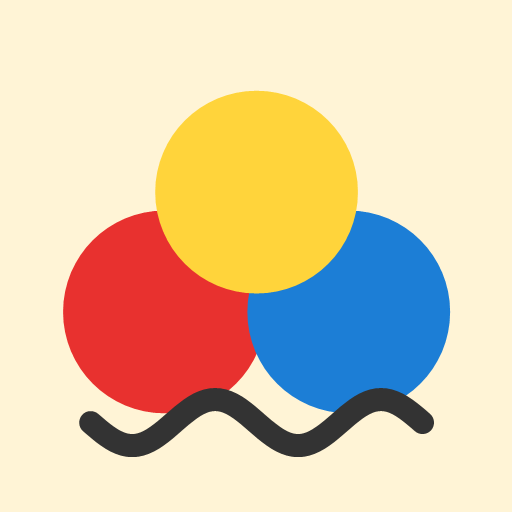
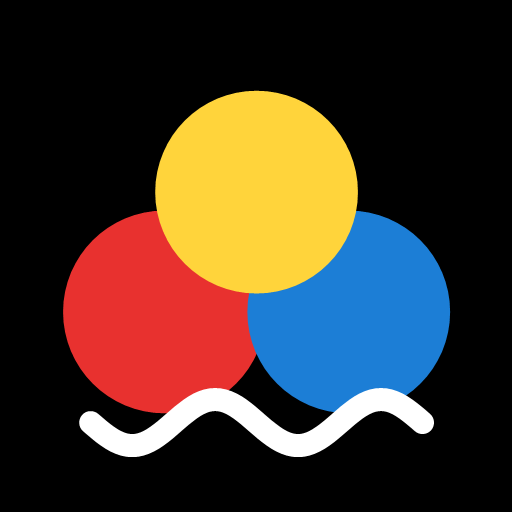
Black theme with rounded-square color swatches

diff --git a/index.html b/index.html
@@ -3,7 +3,7 @@
 <head>
 <meta charset="UTF-8" />
 <meta name="viewport" content="width=device-width, initial-scale=1.0, maximum-scale=1.0, user-scalable=no, viewport-fit=cover" />
-<meta name="theme-color" content="#FFF4D6" />
+<meta name="theme-color" content="#000000" />
 <meta name="robots" content="noindex, nofollow" />
 <meta name="mobile-web-app-capable" content="yes" />
 <meta name="apple-mobile-web-app-capable" content="yes" />
@@ -16,7 +16,7 @@
 <style>
   * { margin: 0; padding: 0; box-sizing: border-box; }
   html, body {
-    width: 100%; height: 100%; background: #FFF4D6; overflow: hidden;
+    width: 100%; height: 100%; background: #000; overflow: hidden;
     touch-action: none; overscroll-behavior: none;
     -webkit-user-select: none; user-select: none;
     -webkit-touch-callout: none; -webkit-tap-highlight-color: transparent;
@@ -32,22 +32,22 @@
   }
   #top { grid-column: 1 / 4; display: flex; align-items: center; gap: var(--g); }
   #top .sp { flex: 1; }
-  .panel { background: #fff; border-radius: calc(var(--u) * .3); display: flex; flex-direction: column; align-items: center; justify-content: space-evenly; padding: calc(var(--u) * .1); gap: calc(var(--u) * .1); min-height: 0; }
+  .panel { background: #1c1c1c; border-radius: calc(var(--u) * .3); display: flex; flex-direction: column; align-items: center; justify-content: space-evenly; padding: calc(var(--u) * .1); gap: calc(var(--u) * .1); min-height: 0; }
   button { font: inherit; border: none; cursor: pointer; touch-action: manipulation; transition: transform .08s; }
   button:active { transform: scale(.92); }
-  .btn { background: #fff; color: #333; border-radius: calc(var(--u) * .25); display: flex; align-items: center; justify-content: center; border: 3px solid #E9E2CF; }
+  .btn { background: #2a2a2a; color: #eee; border-radius: calc(var(--u) * .25); display: flex; align-items: center; justify-content: center; border: 3px solid #444; }
   .btn svg { width: 68%; height: 68%; }
   .big { width: calc(var(--u) * 1.15); height: calc(var(--u) * .85); }
   .tool { width: calc(var(--u) * 1.15); height: calc(var(--u) * .95); }
   .size { width: calc(var(--u) * 1.15); height: calc(var(--u) * .62); }
-  .btn.sel { border-color: #222; background: #FFE9A8; box-shadow: 0 0 0 4px #222; }
-  .size i { display: block; border-radius: 50%; background: #333; }
-  .color { width: calc(var(--u) * .92); height: calc(var(--u) * .92); border-radius: 50%; border: 4px solid rgba(0,0,0,.15); flex: none; }
-  .color.sel { border-color: #222; box-shadow: 0 0 0 4px #fff, 0 0 0 8px #222; transform: scale(1.04); }
+  .btn.sel { border-color: #fff; background: #3d3d3d; box-shadow: 0 0 0 4px #fff; }
+  .size i { display: block; border-radius: 50%; background: #eee; }
+  .color { width: calc(var(--u) * .92); height: calc(var(--u) * .92); border-radius: 22%; border: 4px solid rgba(255,255,255,.5); flex: none; }
+  .color.sel { border-color: #fff; box-shadow: 0 0 0 4px #1c1c1c, 0 0 0 8px #fff; transform: scale(1.04); }
   #colors { display: grid; grid-template-columns: 1fr 1fr; justify-items: center; align-content: space-evenly; gap: calc(var(--u) * .12); }
   #colors .color:last-child { grid-column: 1 / 3; }
   #cv { grid-column: 2; grid-row: 2; width: 100%; height: 100%; background: #fff; border-radius: calc(var(--u) * .3); display: block; touch-action: none; min-height: 0; min-width: 0; }
-  #parent { position: relative; width: calc(var(--u) * .6); height: calc(var(--u) * .6); border-radius: 50%; background: transparent; color: #C9BF9F; display: flex; align-items: center; justify-content: center; }
+  #parent { position: relative; width: calc(var(--u) * .6); height: calc(var(--u) * .6); border-radius: 50%; background: transparent; color: #555; display: flex; align-items: center; justify-content: center; }
   #parent svg { width: 60%; height: 60%; }
   #parent::after { content: ""; position: absolute; inset: 0; border-radius: 50%; border: 5px solid #FF922B; transform: scale(0); opacity: 0; transition: none; }
   #parent.hold::after { opacity: 1; transform: scale(1); transition: transform 1.2s linear; }
@@ -77,8 +77,8 @@
   <div class="panel" id="colors"></div>
   <canvas id="cv"></canvas>
   <div class="panel" id="tools">
-    <button class="btn tool sel" data-tool="pencil" aria-label="Pencil"><svg viewBox="0 0 64 64"><g transform="rotate(45 32 32)"><rect x="24" y="6" width="16" height="36" rx="2" fill="#FFB84D"/><rect x="24" y="6" width="16" height="8" rx="2" fill="#F783AC"/><path d="M24 42h16l-8 16z" fill="#F3D9B1"/><path d="M29 52h6l-3 6z" fill="#333"/></g></svg></button>
-    <button class="btn tool" data-tool="marker" aria-label="Marker"><svg viewBox="0 0 64 64"><g transform="rotate(45 32 32)"><rect x="21" y="4" width="22" height="38" rx="4" fill="#9775FA"/><rect x="21" y="4" width="22" height="9" rx="3" fill="#6741D9"/><path d="M25 42h14l-3 15h-8z" fill="#343A40"/></g></svg></button>
+    <button class="btn tool sel" data-tool="pencil" aria-label="Pencil"><svg viewBox="0 0 64 64"><g transform="rotate(45 32 32)"><rect x="24" y="6" width="16" height="36" rx="2" fill="#FFB84D"/><rect x="24" y="6" width="16" height="8" rx="2" fill="#F783AC"/><path d="M24 42h16l-8 16z" fill="#F3D9B1"/><path d="M29 52h6l-3 6z" fill="#ADB5BD"/></g></svg></button>
+    <button class="btn tool" data-tool="marker" aria-label="Marker"><svg viewBox="0 0 64 64"><g transform="rotate(45 32 32)"><rect x="21" y="4" width="22" height="38" rx="4" fill="#9775FA"/><rect x="21" y="4" width="22" height="9" rx="3" fill="#6741D9"/><path d="M25 42h14l-3 15h-8z" fill="#ADB5BD"/></g></svg></button>
     <button class="btn tool" data-tool="sparkle" aria-label="Sparkle brush"><svg viewBox="0 0 64 64"><path d="M30 8l6 20 20 6-20 6-6 20-6-20-20-6 20-6z" fill="#FFD43B" stroke="#F08C00" stroke-width="3" stroke-linejoin="round"/><path d="M52 6l2 6 6 2-6 2-2 6-2-6-6-2 6-2z" fill="#FF8AD8"/></svg></button>
     <div id="sizes" style="display:contents">
       <button class="btn size" data-size="0" aria-label="Thin"><i style="width:12px;height:12px"></i></button>
@@ -112,7 +112,7 @@
 (function () {
   var $ = function (s) { return document.querySelector(s); };
   var BG = '#fff';
-  var COLORS = ['#E8312F', '#FF922B', '#FFD43B', '#2F9E44', '#1C7ED6', '#7048E8', '#1E1E1E'];
+  var COLORS = ['#E8312F', '#FF922B', '#FFD43B', '#2F9E44', '#1C7ED6', '#7048E8', '#000000'];
   var NAMES = ['Red', 'Orange', 'Yellow', 'Green', 'Blue', 'Purple', 'Black'];
   var NOTES = [262, 294, 330, 392, 440, 523, 196];
   var BASE_W = { pencil: 6, marker: 22, sparkle: 14 };

diff --git a/sw.js b/sw.js
@@ -1,5 +1,5 @@
 /* Bump CACHE on every release so installed copies pick up the new files. */
-const CACHE = 'little-artist-v2';
+const CACHE = 'little-artist-v3';
 const PRECACHE = [
   './',
   './index.html',
